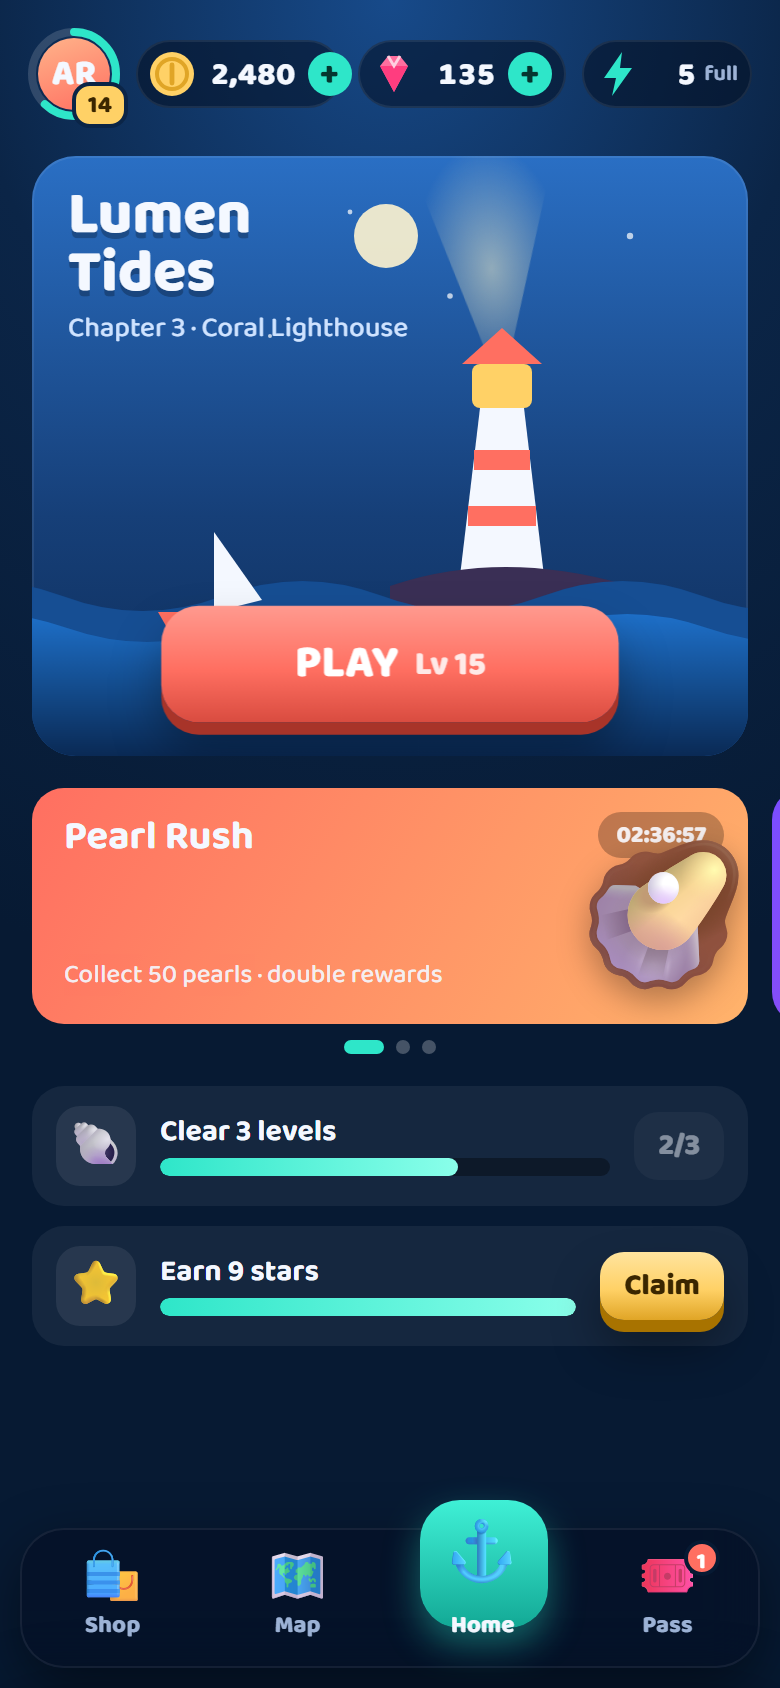
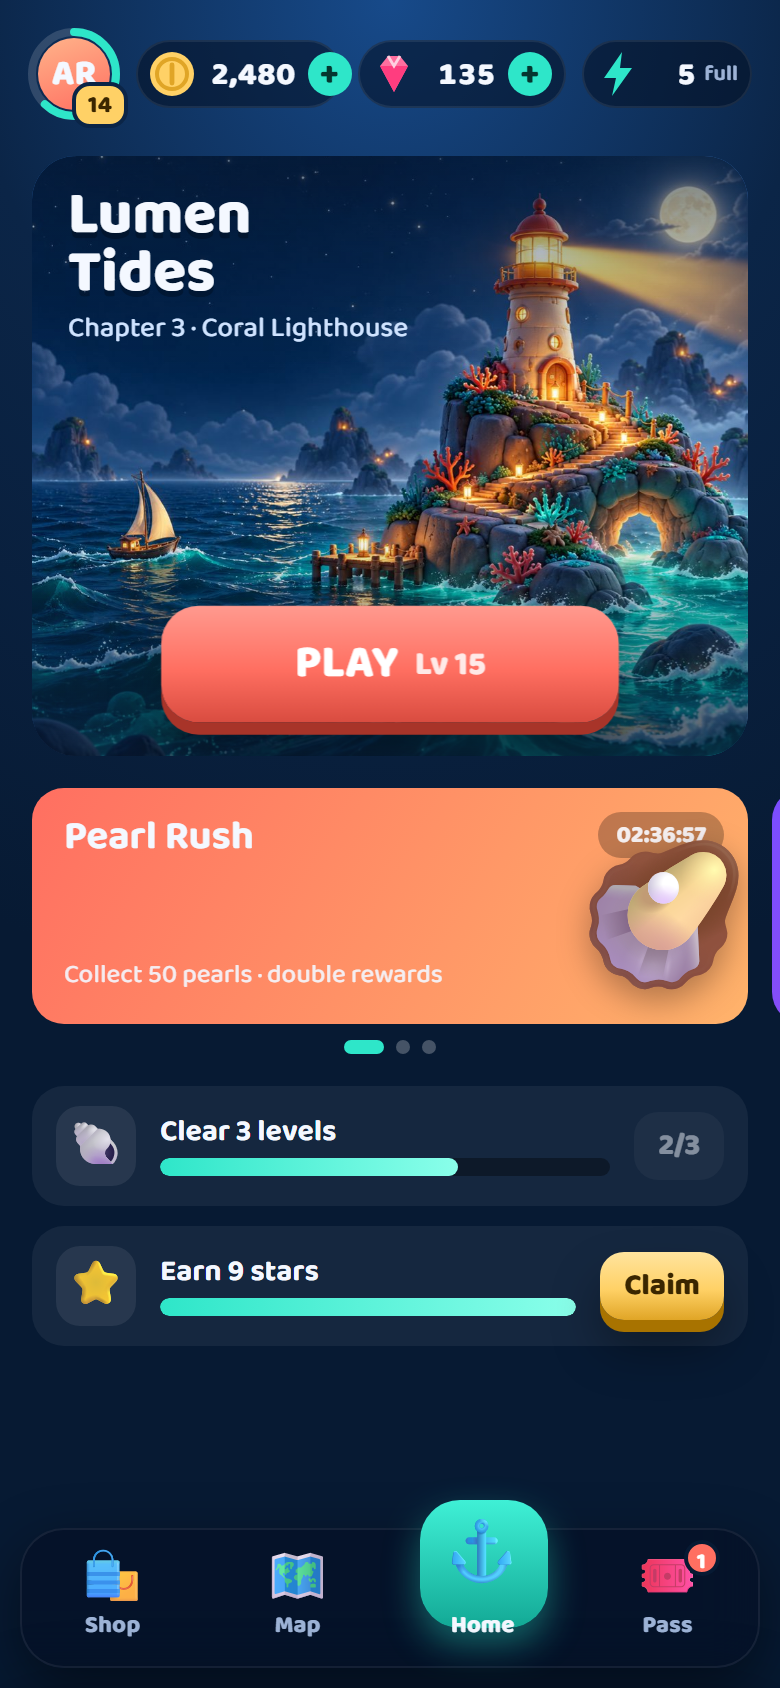
Painted hero artwork on home screen

Changed region(s): [[0.0308, 0.0924, 0.9846, 0.4621], [0.3692, 0.4313, 0.5538, 0.4621], [0.5846, 0.4313, 0.6154, 0.4621]]

diff --git a/app.html b/app.html
@@ -62,10 +62,15 @@ h2{margin:6px 0 12px;font-size:26px;line-height:1;font-weight:800;letter-spacing
 /* ---------- home ---------- */
 .hero{position:relative;height:300px;border-radius:var(--r-lg);overflow:hidden;background:linear-gradient(180deg,#2a6fc4 0%,#163f78 60%,#0d2c57 100%);box-shadow:inset 0 0 0 1px rgba(255,255,255,.08)}
 .hero svg{position:absolute;inset:0;width:100%;height:100%}
-.hero .title{position:absolute;left:18px;top:16px}
+.hero-img{position:absolute;inset:0;width:100%;height:100%;object-fit:cover;object-position:62% 40%;transform:scale(1.04);animation:drift 14s ease-in-out infinite alternate}
+@keyframes drift{to{transform:scale(1.1) translate(-2%,1%)}}
+.hero-shade{position:absolute;inset:0;background:linear-gradient(180deg,rgba(7,26,51,.55) 0%,rgba(7,26,51,0) 38%,rgba(7,26,51,0) 62%,rgba(7,26,51,.75) 100%)}
+.hero-beam{position:absolute;left:58%;top:16%;width:60%;height:24%;background:linear-gradient(90deg,rgba(255,230,150,.45),transparent);clip-path:polygon(0 45%,100% 0,100% 100%,0 55%);transform-origin:0 50%;animation:sweep 4s ease-in-out infinite;mix-blend-mode:screen;pointer-events:none}
+@keyframes sweep{50%{opacity:.35;transform:rotate(-6deg)}}
+.hero .title{position:absolute;left:18px;top:16px;z-index:1}
 .hero .title b{display:block;font-size:30px;line-height:.95;font-weight:800;text-shadow:0 3px 0 rgba(0,0,0,.25)}
 .hero .title span{color:#cfe3ff;font-size:14px}
-.hero .play{position:absolute;left:50%;bottom:18px;transform:translateX(-50%);width:220px;animation:breathe 2.4s ease-in-out infinite}
+.hero .play{position:absolute;z-index:1;left:50%;bottom:18px;transform:translateX(-50%);width:220px;animation:breathe 2.4s ease-in-out infinite}
 @keyframes breathe{50%{transform:translateX(-50%) scale(1.04)}}
 .hero .play:active{animation:none}
 .wave{animation:wave 6s ease-in-out infinite}
@@ -237,19 +242,7 @@ canvas#fx{position:absolute;inset:0;width:100%;height:100%;z-index:80;pointer-ev
   <!-- HOME -->
   <section class="screen" id="home">
     <div class="hero">
-      <svg viewBox="0 0 360 300" preserveAspectRatio="xMidYMid slice" aria-hidden="true">
-        <defs><linearGradient id="sea" x1="0" y1="0" x2="0" y2="1"><stop offset="0" stop-color="#1e70c9"/><stop offset="1" stop-color="#0a2a55"/></linearGradient>
-          <radialGradient id="glow"><stop offset="0" stop-color="#fff6c8" stop-opacity=".9"/><stop offset="1" stop-color="#fff6c8" stop-opacity="0"/></radialGradient></defs>
-        <circle cx="178" cy="40" r="16" fill="#fff4cf" opacity=".9"/>
-        <g fill="#ffffff" opacity=".7"><circle cx="300" cy="40" r="1.6"/><circle cx="160" cy="28" r="1.2"/><circle cx="210" cy="70" r="1.4"/><circle cx="120" cy="90" r="1"/></g>
-        <g class="beam"><path d="M236 118 L360 80 L360 156 Z" fill="url(#glow)" opacity=".55"/></g>
-        <path d="M215 210 L225 126 L247 126 L257 210 Z" fill="#f4f8ff"/><path d="M219 180 h34 M222 152 h28" stroke="#ff6f61" stroke-width="10"/>
-        <rect x="221" y="104" width="30" height="22" rx="4" fill="#ffd166"/><path d="M216 104 L236 86 L256 104 Z" fill="#ff6f61"/>
-        <path d="M180 215 Q236 196 300 215 L300 240 L180 240Z" fill="#3a2f55"/>
-        <g class="wave b"><path d="M-40 220 Q0 205 40 220 T120 220 T200 220 T280 220 T360 220 T440 220 V300 H-40Z" fill="#164e93"/></g>
-        <g class="wave"><path d="M-40 236 Q0 222 40 236 T120 236 T200 236 T280 236 T360 236 T440 236 V300 H-40Z" fill="url(#sea)"/></g>
-        <g transform="translate(64 228)"><path d="M0 0 h56 l-8 14 h-40z" fill="#ff6f61"/><path d="M28 0 V-40 L52 -6 Z" fill="#f4f8ff"/></g>
-      </svg>
+      <img class="hero-img" src="art/hero.jpg" alt="" aria-hidden="true"><div class="hero-shade"></div>
       <div class="title"><b>Lumen<br>Tides</b><span>Chapter 3 · Coral Lighthouse</span></div>
       <button class="btn coral play" id="playBtn"><span class="shine"></span>PLAY <span id="playLvl" style="font-size:16px;opacity:.85">Lv 15</span></button>
     </div>
